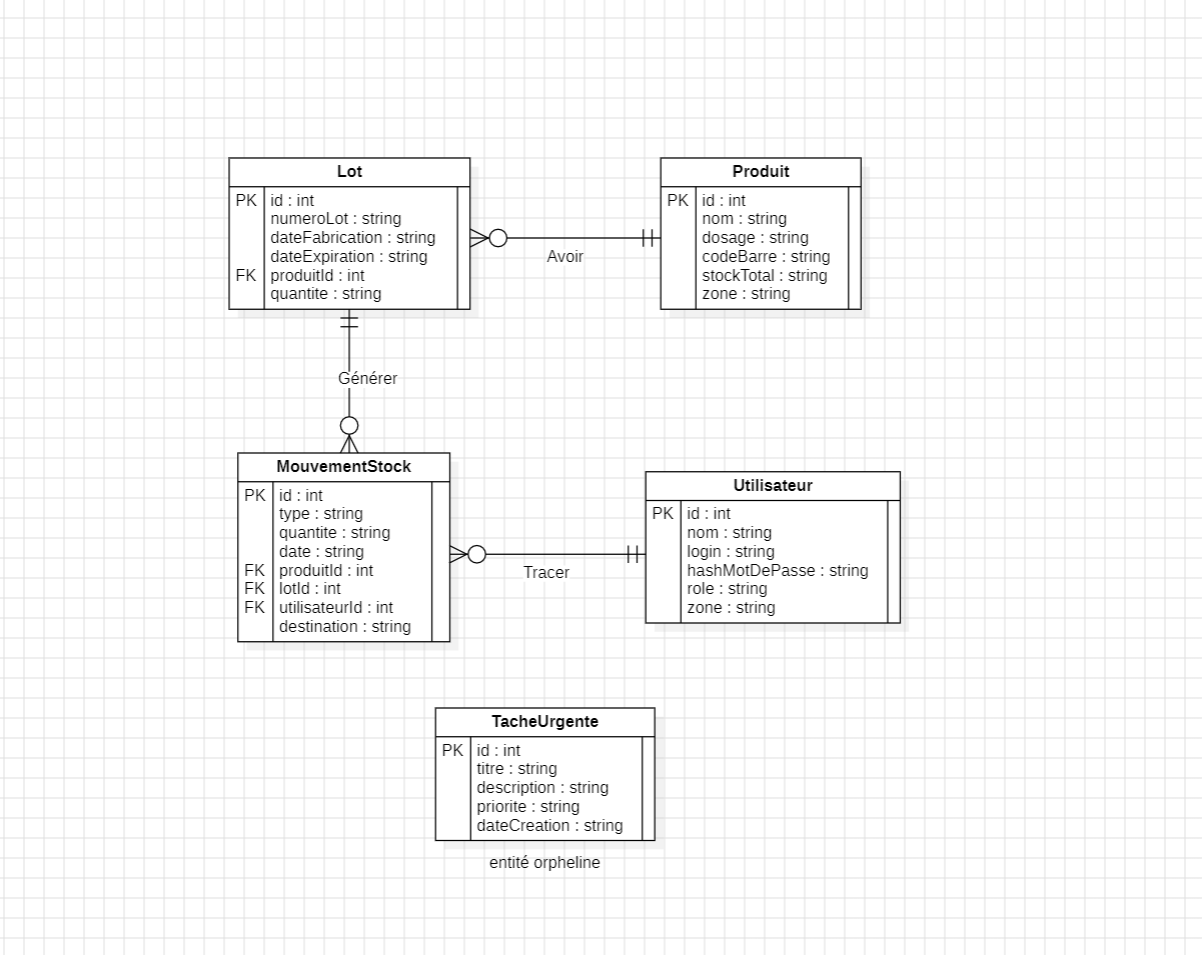
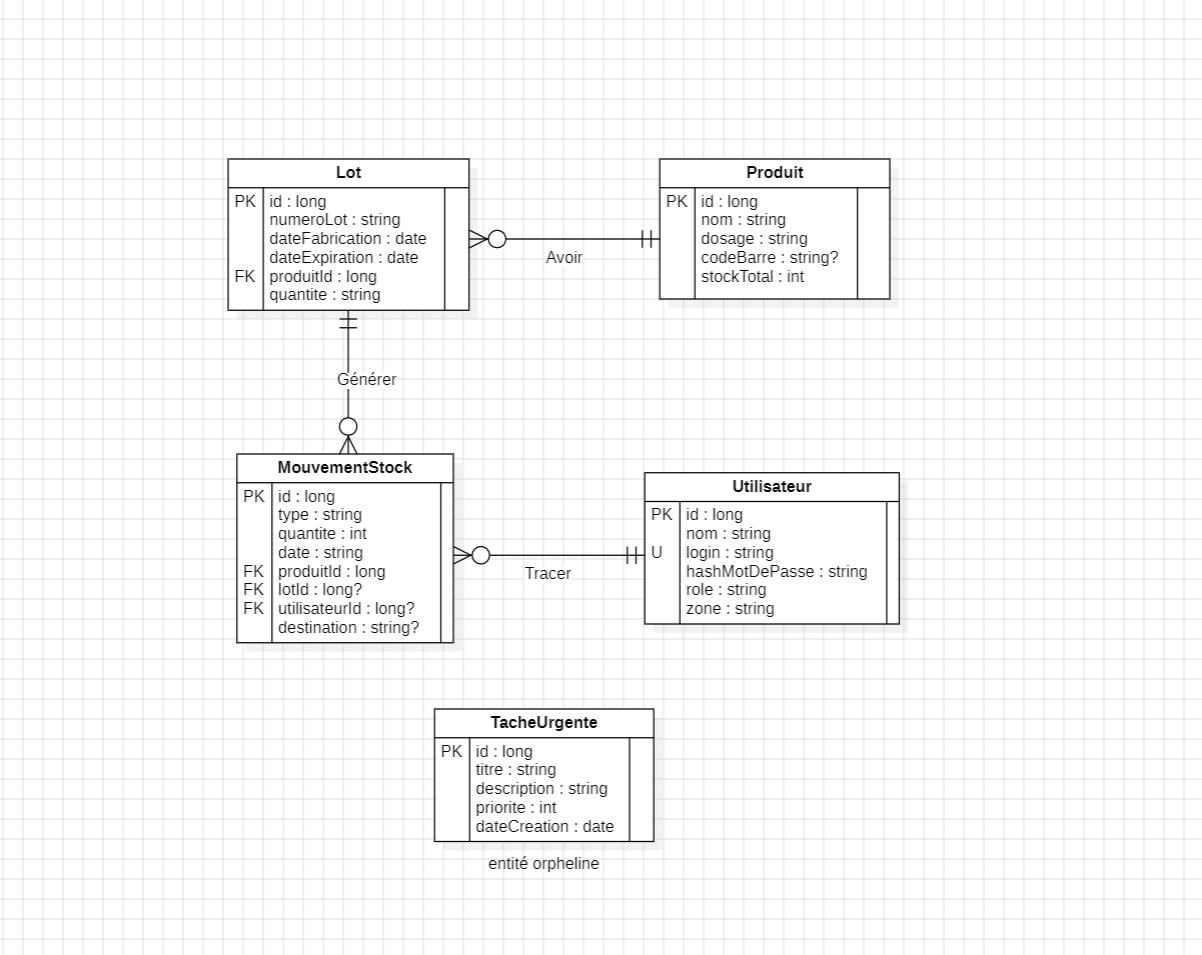
capture et ajout au repo (docs/mcd.png) et (mdp.md)

diff --git a/app/docs/mpd.md b/app/docs/mpd.md
@@ -1,0 +1,106 @@
+# Modèle Physique de Données (MPD)
+
+## Table : UTILISATEUR
+
+| Colonne | Type | Contraintes |
+|---------|------|-------------|
+| id | Entier long | Clé primaire, auto-incrémenté |
+| nom | Texte | Non nul |
+| login | Texte | Non nul, unique |
+| hashMotDePasse | Texte | Non nul |
+| role | Texte | Non nul |
+| zone | Texte | Non nul |
+
+---
+
+## Table : PRODUIT
+
+| Colonne | Type | Contraintes |
+|---------|------|-------------|
+| id | Entier long | Clé primaire, auto-incrémenté |
+| nom | Texte | Non nul |
+| dosage | Texte | Non nul |
+| codeBarre | Texte | Nul autorisé |
+| stockTotal | Entier | Non nul, valeur par défaut 0 |
+
+---
+
+## Table : LOT
+
+| Colonne | Type | Contraintes |
+|---------|------|-------------|
+| id | Entier long | Clé primaire, auto-incrémenté |
+| numeroLot | Texte | Non nul, unique |
+| produitId | Entier long | Clé étrangère vers PRODUIT(id), non nul |
+| dateFabrication | Date | Non nul |
+| dateExpiration | Date | Non nul |
+| quantite | Entier | Non nul |
+
+**Règle de gestion** : Si un produit est supprimé, ses lots sont également supprimés (CASCADE).
+
+---
+
+## Table : MOUVEMENT_STOCK
+
+| Colonne | Type | Contraintes |
+|---------|------|-------------|
+| id | Entier long | Clé primaire, auto-incrémenté |
+| type | Texte | Non nul (valeurs possibles : "ENTREE", "SORTIE") |
+| quantite | Entier | Non nul |
+| date | Date | Non nul |
+| produitId | Entier long | Clé étrangère vers PRODUIT(id), non nul |
+| lotId | Entier long | Clé étrangère vers LOT(id), nul autorisé |
+| utilisateurId | Entier long | Clé étrangère vers UTILISATEUR(id), nul autorisé |
+| destination | Texte | Nul autorisé |
+
+**Règles de gestion** :
+- Si un produit est supprimé → suppression des mouvements (CASCADE)
+- Si un lot est supprimé → lotId devient nul (SET NULL)
+- Si un utilisateur est supprimé → utilisateurId devient nul (SET NULL)
+
+---
+
+## Table : TACHE_URGENTE
+
+| Colonne | Type | Contraintes |
+|---------|------|-------------|
+| id | Entier long | Clé primaire, auto-incrémenté |
+| titre | Texte | Non nul |
+| description | Texte | Non nul |
+| priorite | Entier | Non nul (1 = haute, 5 = basse) |
+| dateCreation | Date | Non nul |
+
+---
+
+## Liste des clés étrangères
+
+| Table | Colonne | Référence | Comportement suppression |
+|-------|---------|-----------|-------------------------|
+| LOT | produitId | PRODUIT(id) | CASCADE |
+| MOUVEMENT_STOCK | produitId | PRODUIT(id) | CASCADE |
+| MOUVEMENT_STOCK | lotId | LOT(id) | SET NULL |
+| MOUVEMENT_STOCK | utilisateurId | UTILISATEUR(id) | SET NULL |
+
+---
+
+## Liste des index recommandés
+
+| Table | Colonne(s) | Raison |
+|-------|------------|--------|
+| LOT | produitId | Recherche des lots par produit |
+| LOT | numeroLot | Recherche rapide par numéro unique |
+| MOUVEMENT_STOCK | produitId | Recherche des mouvements par produit |
+| MOUVEMENT_STOCK | lotId | Recherche des mouvements par lot |
+| MOUVEMENT_STOCK | date | Tris et recherches par date |
+| UTILISATEUR | login | Recherche par identifiant de connexion |
+
+---
+
+## Correspondance des types
+
+| Type MPD | Type SQLite |
+|----------|-------------|
+| Entier long | INTEGER |
+| Entier | INTEGER |
+| Texte | TEXT |
+| Date | TEXT (format ISO YYYY-MM-DD) |
